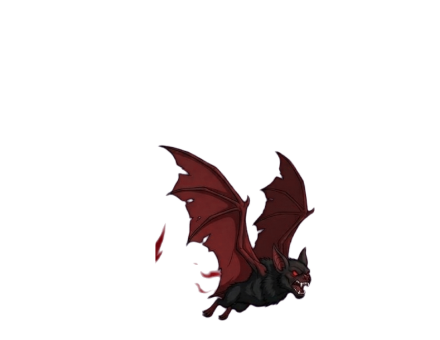
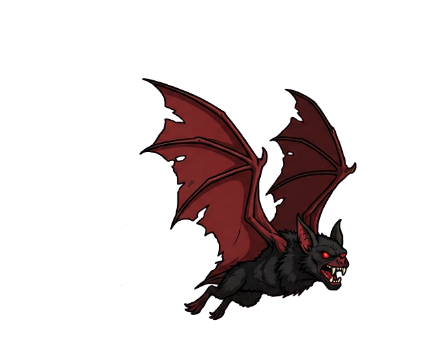
흡혈 박쥐 새 그림(ChatGPT), ChatGPT 도구: 입력칸 비우기·보내기 기다림·한 장만 요청

Changed region(s): [[0.325, 0.2059, 0.8273, 0.9412]]

diff --git a/tools/gemini/cutmob.template.js b/tools/gemini/cutmob.template.js
@@ -95,7 +95,7 @@ async () => {
       if (job.atkOrder) ac = job.atkOrder.map(i => ac[i]);
       // 공격 시트는 크기가 다르게 그려질 때가 있어서, '준비 자세' 칸(기본 4번째)의 키를 걷기 키에 맞춤
       const ref = ac[job.atkRef === undefined ? 3 : job.atkRef];
-      sheets.push(['attack', atk, ac, scale * walkH / ref.figH]);
+      sheets.push(['attack', atk, ac, job.sameScale ? scale : scale * walkH / ref.figH]); // sameScale: 한 장에 같이 그린 그림은 같은 배율
     }
     for (const [kind, c, cs, scale] of sheets) {
       cs.forEach((cell, i) => {

diff --git a/작업기록.md b/작업기록.md
@@ -310,3 +310,5 @@
 - 컷신을 그림 컷으로 교체 (11-13 사용자 결정): CINE_STILLS = true, assets/cinema/*.mp4·*.json 삭제(61MB → 그림 4.6MB, 원본은 구글 드라이브 cinema_src 와 git 기록). s5_02 는 "검을 부러뜨리는 자세"로 보여 ChatGPT 로 "칼끝을 맞대어 잇는" 장면으로 다시 그림.
 - 제미나이는 11-13 오전 Flash-Lite 로 바뀜(사용량 소진) — 5시간마다 다시 참.
 - ChatGPT 묶음 (11-13 오후, tools/gemini/gpt_batch_1113.sh): 혈마 늑대·흑풍 늑대 걷기 다시(네 다리), 앱 아이콘(store/app_icon_512.png + 웹 아이콘 assets/icon_192.png, index.html 에 연결), 당소연 시전 다시(assets_new/tangsoyeon_cast_gpt.png, 바탕 정확한 마젠타).
+- 흡혈 박쥐 날기·공격 새 그림 (ChatGPT, 4칸x2줄, 자르기 sameScale). ChatGPT 도구 고침: 쓰기 전 입력칸 비우기, 보내기 단추 켜질 때까지 기다림, 요청문 앞에 "예전 대화·그림 무시, 이 한 장만"(일반 채팅에서 예전 그림을 모아 그리던 문제). 임시 채팅은 그림이 안 됨.
+- ChatGPT 무료 한도: 11-14 오전 10:58 에 다시. 남은 요청: 서리 술사 걷기(tools/gemini/gpt_batch_1113b.sh 다시 돌리면 됨).
